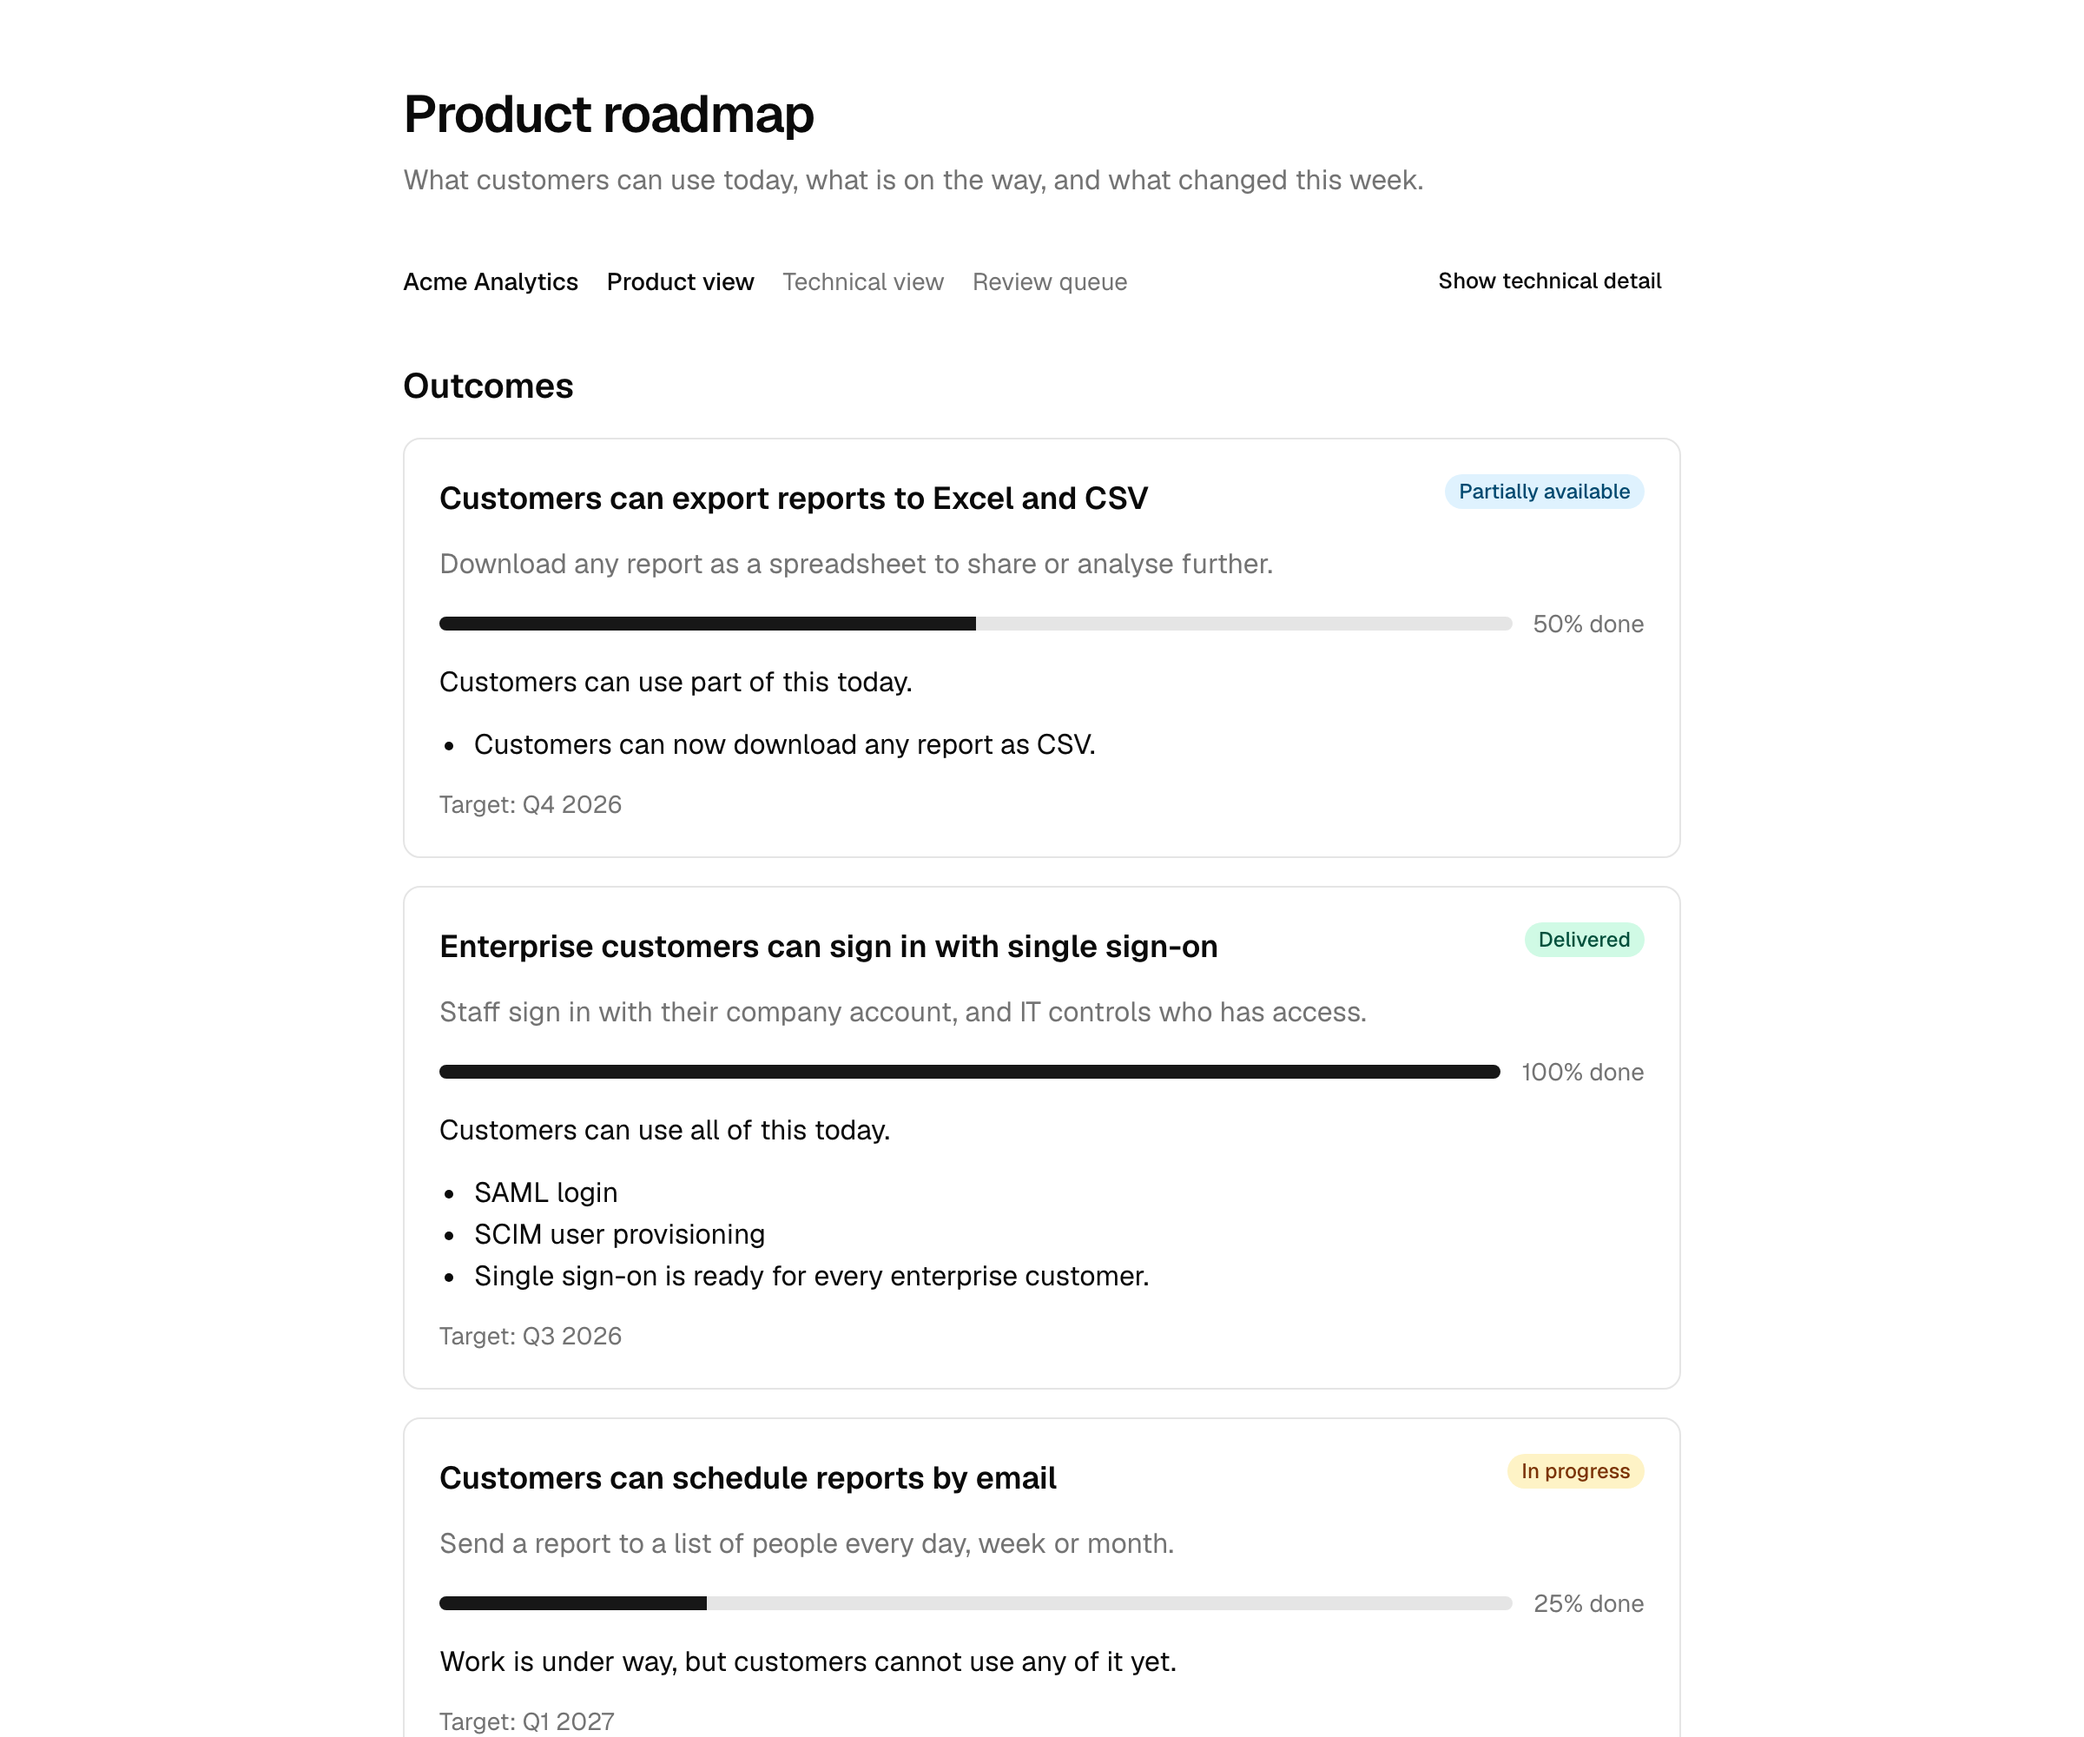
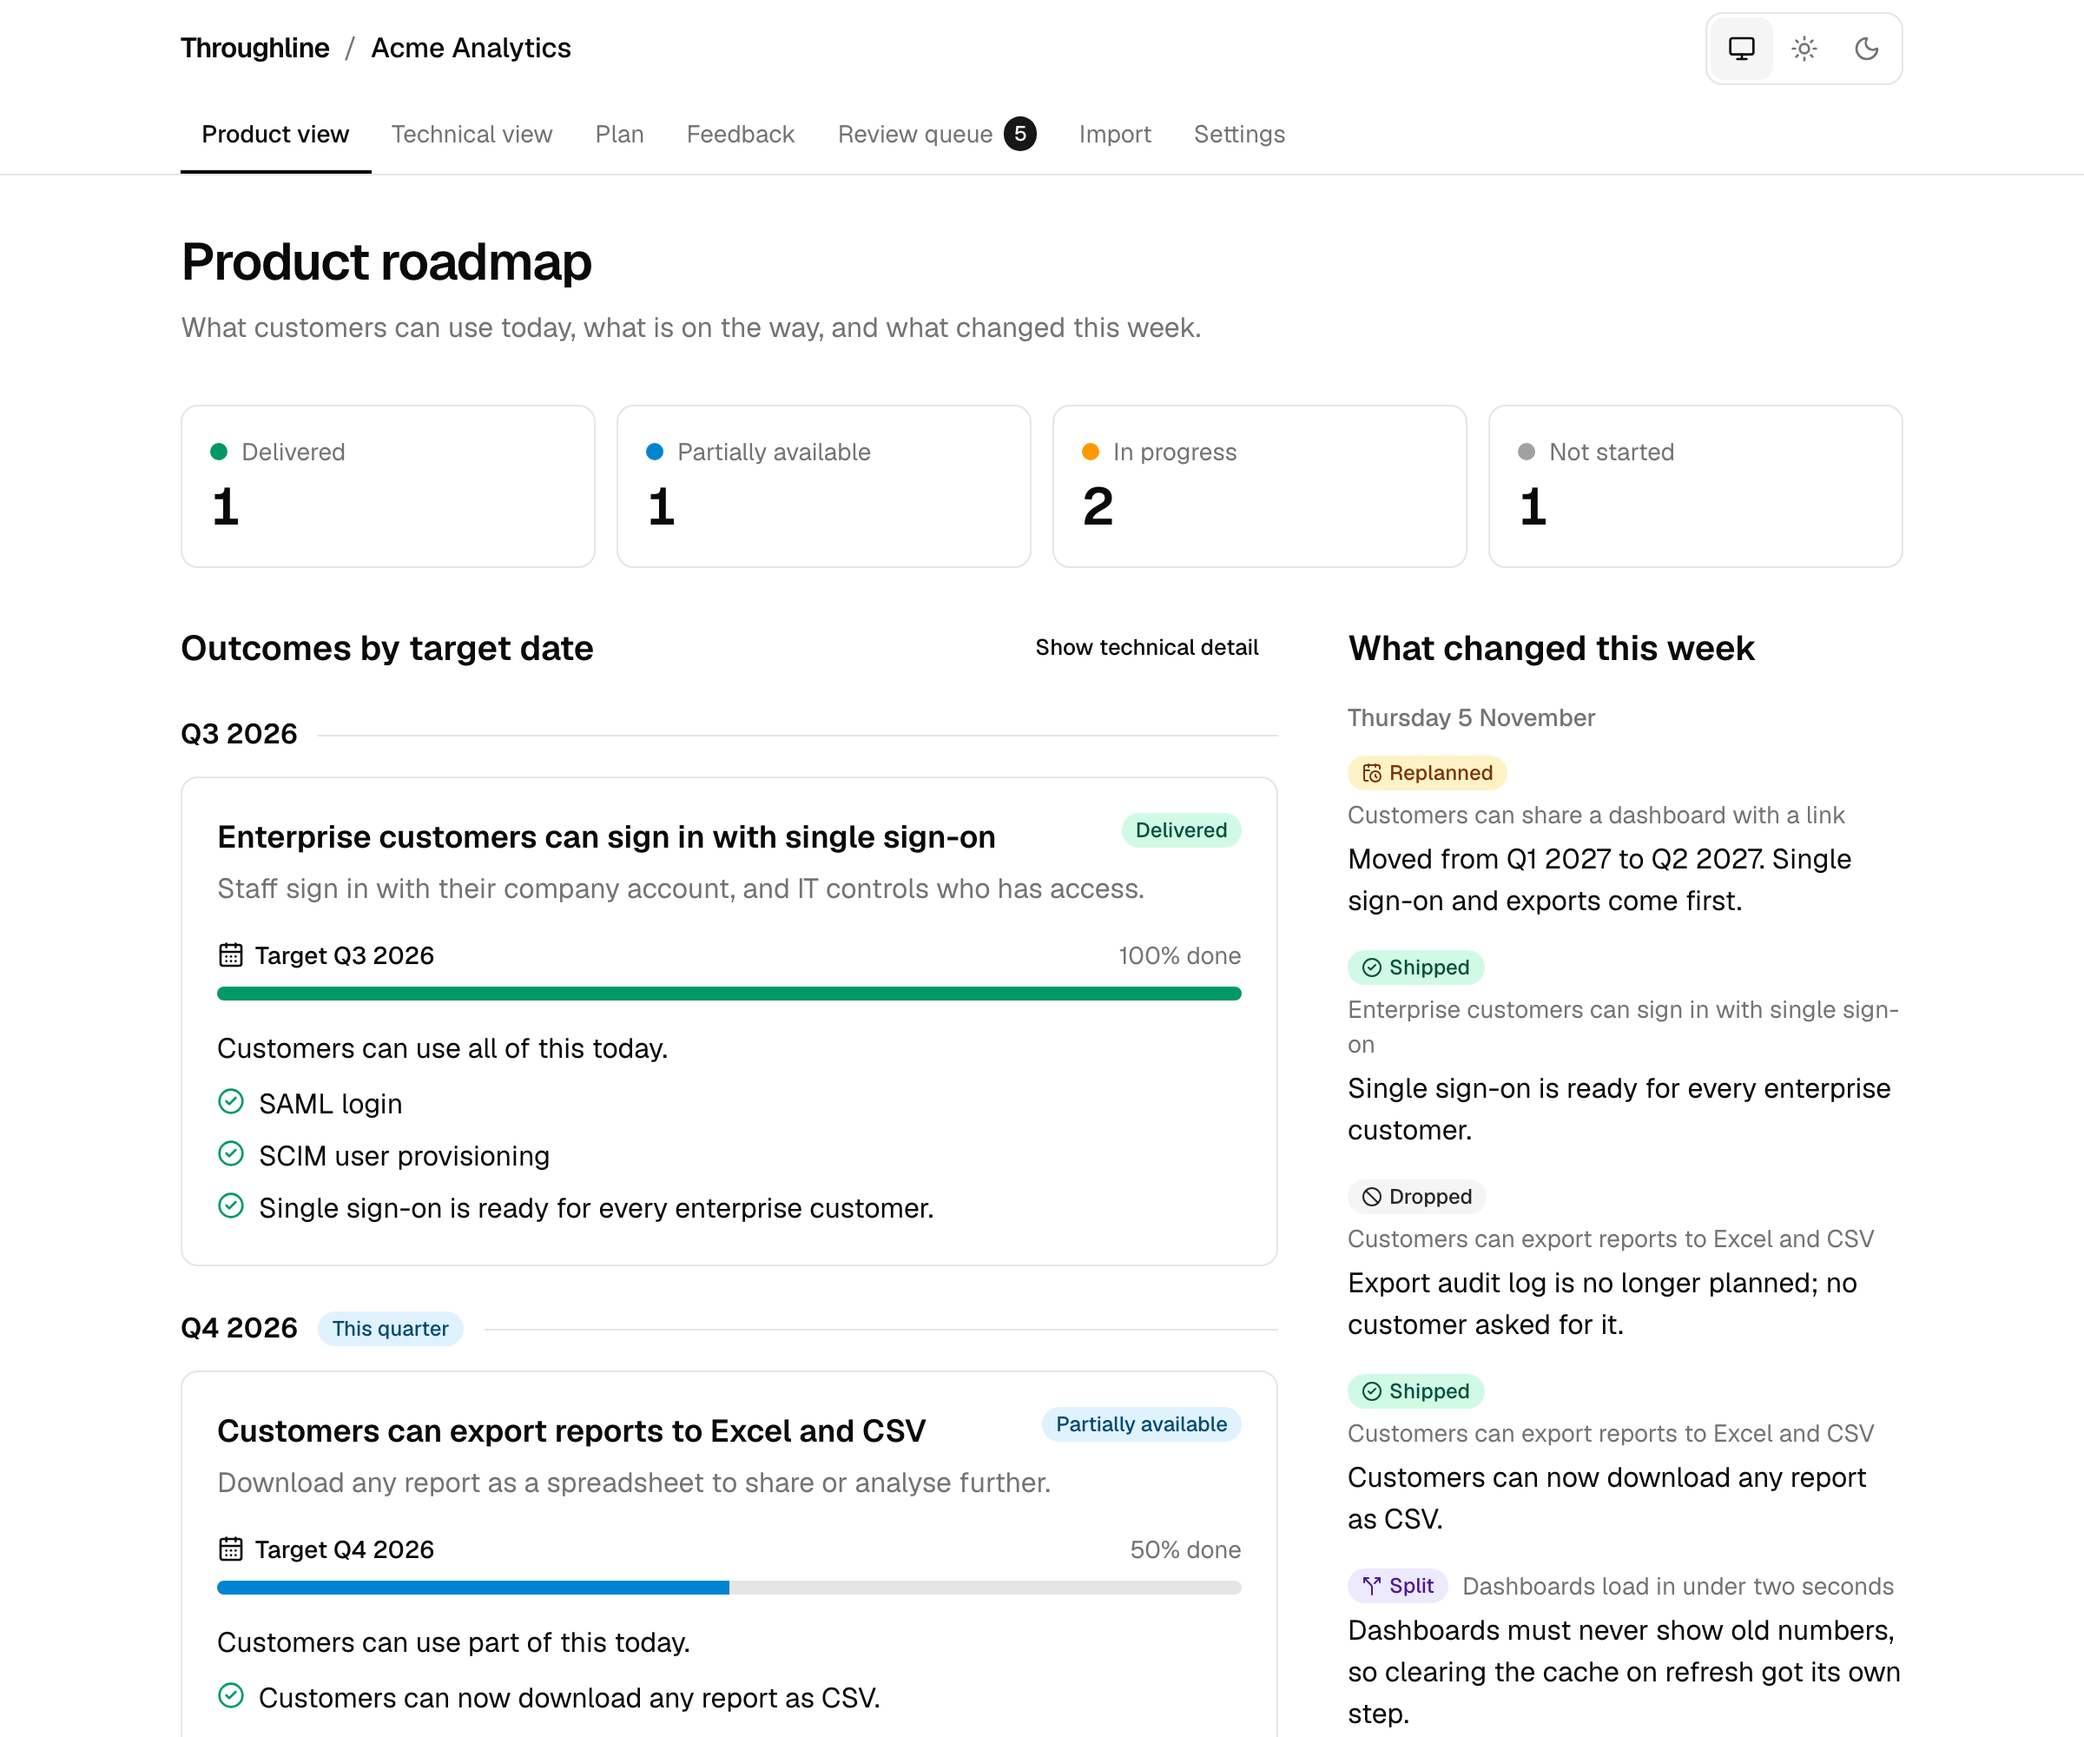
README: match the redesigned app, with new screenshots
- Re-take the product view, technical view and review queue screenshots,
  which predated the redesign, and add ones for the plan and feedback pages.
- How it works: add the replanning step (plan page and slip check).
- What to try: describe each page as it is now, add the Feedback page, and
  note the landing page preview, phone layout and dark mode.
- Built with Claude: list the slip check among the agents.
- Future work: drop the link to the closed feedback-ingestion issue and say
  what is left of feedback and digests.

diff --git a/README.md b/README.md
@@ -2,7 +2,7 @@
 
 Traces every PR back to a customer-facing outcome, even after a requirement has split into several pieces.
 
-**Try it:** [run it locally](#run-it-locally) in a few minutes with no accounts or keys, or [deploy your own](docs/DEPLOY.md) public demo on Vercel. Either way, **Open demo** goes straight to a sample company's roadmap with no sign-in.
+**Try it:** [run it locally](#run-it-locally) in a few minutes with no accounts or keys, or [deploy your own](docs/DEPLOY.md) public demo on Vercel. Either way, the landing page previews a sample company's roadmap live, and **Open demo** goes straight to it with no sign-in.
 
 ## What Throughline does
 
@@ -17,15 +17,23 @@ Throughline keeps them connected:
 
 The **product view** answers "what can customers use today?" in plain language:
 
-![The product view: each customer outcome with a status, progress and what is available today](docs/images/product-view.png)
+![The product view: outcomes counted by status, then grouped by target quarter with what is available today, beside what changed this week](docs/images/product-view.png)
 
 The **technical view** shows every requirement, how it was split, and the issues and pull requests behind it:
 
-![The technical view: outcomes, requirements and their split children, with linked pull requests](docs/images/technical-view.png)
+![The technical view: outcomes, requirements and their split children, with kind of work, team, linked work and progress by team](docs/images/technical-view.png)
 
 The **review queue** is where a person approves, edits or rejects what the agents propose:
 
-![The review queue: a proposal to mark Excel export as done, with its reasoning and a diff](docs/images/review-queue.png)
+![The review queue: five pending proposals counted by kind, and a proposal to add an outcome with its reasoning and the changes it would make](docs/images/review-queue.png)
+
+The **plan** page is where a person sets priorities and targets:
+
+![The plan page: outcomes in priority order with their targets, and one outcome's requirements with target, kind of work and team](docs/images/plan.png)
+
+The **feedback** page shows what customers ask for, and what the roadmap is missing:
+
+![The feedback page: requests no outcome covers grouped by theme, then how much each outcome is asked for](docs/images/feedback.png)
 
 ## How it works
 
@@ -34,8 +42,9 @@ The **review queue** is where a person approves, edits or rejects what the agent
 3. **Reconcile when work ships.** When linked work merges, the reconciliation agent reads the pull request and the plan and proposes what changed: done, partly done, split into new pieces, or scope added. A merged pull request with no reference gets a suggested link instead.
 4. **Approve.** Every proposal waits in the review queue. Approving it changes the graph and writes an event with a plain-language note, which feeds the product view's "what changed this week".
 5. **Read the roadmaps.** Status rolls up from finished work to requirements to outcomes, so both views always agree.
-6. **Hear from customers.** An issue labelled `feedback` is customer feedback, not work. The feedback agent names what it asks for and proposes the outcome that would deliver it, so the feedback page shows how much each outcome is asked for, and feedback no outcome covers, grouped by theme, shows what the roadmap is missing.
-7. **Send a weekly digest.** Every Monday a plain-language summary of what changed and where each outcome stands can go to a Slack channel, for people who never open Throughline. Set it up on a project's settings page.
+6. **Replan when dates move.** On the plan page a person reorders outcomes and changes targets, and each change is recorded like any other. When work is due after its outcome's target, or a target passes with work still open, the slip check proposes a later target and gives the reason.
+7. **Hear from customers.** An issue labelled `feedback` is customer feedback, not work. The feedback agent names what it asks for and proposes the outcome that would deliver it, so the feedback page shows how much each outcome is asked for, and feedback no outcome covers, grouped by theme, shows what the roadmap is missing.
+8. **Send a weekly digest.** Every Monday a plain-language summary of what changed and where each outcome stands can go to a Slack channel, for people who never open Throughline. Set it up on a project's settings page.
 
 The full design, data model and trade-offs are in [`docs/ARCHITECTURE.md`](docs/ARCHITECTURE.md).
 
@@ -73,16 +82,19 @@ pnpm db:seed      # load the "Acme Analytics" demo project
 pnpm dev
 ```
 
-Open http://localhost:3000 and click **Open demo**. Data is stored in an embedded Postgres (PGlite) under `./.pglite`. To use a Postgres server such as Neon instead, copy `.env.example` to `.env.local` and set `DATABASE_URL`. To go back to PGlite while `.env.local` points at Neon, run `export DATABASE_URL="" DATABASE_URL_UNPOOLED=""` in the shell first.
+Open http://localhost:3000. The landing page shows one demo outcome live in the product view, the technical view and the review queue; click **Open demo** for the whole project. Data is stored in an embedded Postgres (PGlite) under `./.pglite`. To use a Postgres server such as Neon instead, copy `.env.example` to `.env.local` and set `DATABASE_URL`. To go back to PGlite while `.env.local` points at Neon, run `export DATABASE_URL="" DATABASE_URL_UNPOOLED=""` in the shell first.
 
 What to try:
 
-- **Product view** (`/p/acme-analytics`): what customers can use today and what changed this week. **Show technical detail** adds requirement keys.
-- **Technical view** (`/p/acme-analytics/tech`): the requirement tree, linked work and split history, filterable by kind of work, team and person, with progress by team.
-- **Plan** (`/p/acme-analytics/plan`): drag outcomes into a new priority order, change targets in place, and set each requirement's kind of work and team; each move shows up in the product view's change feed. Work due after its outcome's target is flagged.
-- **Review queue** (`/p/acme-analytics/review`): approve, edit or reject the pending proposals, then watch the product view change.
+- **Product view** (`/p/acme-analytics`): how many outcomes are delivered, partially available, in progress and not started, then each outcome under its target quarter with what customers can use today and what is still to come, beside what changed this week. **Show technical detail** adds requirement keys.
+- **Technical view** (`/p/acme-analytics/tech`): the requirement tree with linked work, progress by team and split history. Open or close any row, and filter by kind of work, team and person. The demo's issues and pull requests are made up, so they are marked "sample" instead of linking to GitHub.
+- **Plan** (`/p/acme-analytics/plan`): drag outcomes, or use the arrow buttons, into a new priority order, change targets in place by picking a quarter or typing a date, and set each requirement's target, kind of work and team; each move shows up in the product view's change feed. Work due after its outcome's target is flagged.
+- **Feedback** (`/p/acme-analytics/feedback`): requests no outcome covers come first, grouped by theme, then how much each outcome is asked for. Link a request to an outcome yourself, or review the match an agent suggested.
+- **Review queue** (`/p/acme-analytics/review`): five pending proposals, one of each kind: an imported outcome, shipped work, a suggested link, a feedback match and a target at risk. Approve, edit or reject one; it is confirmed in place with a link to where the change shows.
 - **Import** (`/p/acme-analytics/import`): paste a roadmap. Without a model key you get a sample proposal; set `ANTHROPIC_API_KEY` in `.env.local` to use Claude, or `OPENROUTER_API_KEY` to use a free model through OpenRouter.
-- **Settings** (`/p/acme-analytics/settings`): connect a real repository once you have set up a GitHub App as described in [`docs/GITHUB_APP.md`](docs/GITHUB_APP.md).
+- **Settings** (`/p/acme-analytics/settings`): read the next weekly digest as it stands, and connect a real repository once you have set up a GitHub App as described in [`docs/GITHUB_APP.md`](docs/GITHUB_APP.md).
+
+Every page works on a phone and follows your system's light or dark theme; the control in the top bar overrides it.
 
 Checks that CI runs on every pull request:
 
@@ -112,16 +124,17 @@ Throughline is built to track its own build: its seven-stage plan, [`docs/PLAN.m
 
 ## Built with Claude
 
-Throughline was built with [Claude Code](https://claude.com/claude-code), one stage of [`docs/PLAN.md`](docs/PLAN.md) per pull request. [`CLAUDE.md`](CLAUDE.md) gives every session the design rules and conventions above, and each pull request was reviewed before it merged. Inside the app, the import, reconciliation, link suggestion and feedback agents call Claude through the Anthropic TypeScript SDK, or any OpenRouter model through a second provider that the public demo uses with a free model.
+Throughline was built with [Claude Code](https://claude.com/claude-code): first one stage of [`docs/PLAN.md`](docs/PLAN.md) per pull request, then issue by issue. [`CLAUDE.md`](CLAUDE.md) gives every session the design rules and conventions above, and each pull request was reviewed before it merged. Inside the app, the import, reconciliation, slip check, link suggestion and feedback agents call Claude through the Anthropic TypeScript SDK, or any OpenRouter model through a second provider that the public demo uses with a free model.
 
 ## Future work
 
-Designed for but not built in v1; each has an issue:
+Designed for but not built yet; each has an issue:
 
-- [Feedback ingestion](../../issues/8): GitHub issues labelled `feedback` are built; support and CRM sources are still to come.
 - [Research agent](../../issues/9): check planned approaches against current libraries and the market.
 - [More sources](../../issues/10): Linear and Jira alongside GitHub.
 - [Teams and permissions](../../issues/11): organisations, roles and SSO, replacing the public site's view-only rule.
+
+Two built features have a second half still to come: feedback from support and CRM tools (GitHub issues labelled `feedback` work today), and the weekly digest by email (Slack works today).
 
 ## Learn more
 
